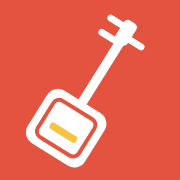
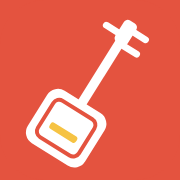
アイコンの天神（糸巻きの向き）を左右逆にする

Changed region(s): [[0.5278, 0.0833, 0.6944, 0.25], [0.6667, 0.1667, 0.8333, 0.3333]]

diff --git a/index.html b/index.html
@@ -10,7 +10,7 @@
 <meta property="og:description" content="また、みんなで弾こう。2028年3月19日（日）筑波大学で。">
 <meta property="og:image" content="https://shinfrog.github.io/mugenjuku-reunion-site/assets/img/hero_sakura.jpg">
 <meta name="theme-color" content="#E4533F">
-<link rel="icon" href="assets/img/icon.svg?v=2" type="image/svg+xml">
+<link rel="icon" href="assets/img/icon.svg?v=3" type="image/svg+xml">
 <link rel="apple-touch-icon" href="assets/img/apple-touch-icon.png">
 <link rel="preconnect" href="https://fonts.googleapis.com">
 <link rel="preconnect" href="https://fonts.gstatic.com" crossorigin>
